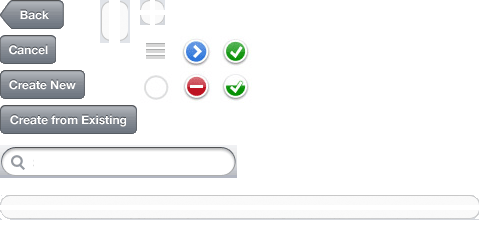
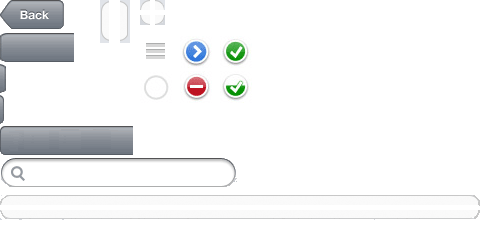
a new version

Changed region(s): [[0.0, 0.1217, 0.48, 0.8217], [0.03, 0.9435, 0.96, 0.9739]]

diff --git a/HTML/style/style.css b/HTML/style/style.css
@@ -1,6 +1,6 @@
 @charset "utf-8";
 
-body, button, input, select, textarea { font: 12px/1.5 Tahoma, Arial, sans-serif; }
+body, button, input, select, textarea { font: 12px/1.5 Arial, Tahoma, sans-serif; }
 ul, ol { list-style: none; margin:0;padding:0; }
 .FL{float:left;}
 .FR{float:right;}
@@ -10,14 +10,19 @@ ul, ol { list-style: none; margin:0;padding:0; }
 .doc{margin:0 auto;}
 .content{background:#d1d3d9;border:3px solid #888988;border-top:0;overflow:hidden;}
 .content .main-ctnt{width:505px;padding-left:25px;overflow:hidden;}
-.b-back,.b-cancel,.b-cnew,.b-cfexist,.ipt-search,.ipt-l,.ipt-r,.i-list,.i-radio,.rbox-t,.rbox-b,
+.b-back,.b-al,.b-ar,.b-bl,.b-br,.ipt-search,.ipt-l,.ipt-r,.i-list,.i-radio,.rbox-t,.rbox-b,
 .i-expander,.i-del,.i-check,.i-half-check{background-image:url(../images/bg.png);display:inline-block;}
 .body-rex,.head-rex,.search-rex,.ipt-rex,.bottom-rex{background:url(../images/bgrex.png) repeat-x 0 0;}
 .b-back{width:64px;height:29px;background-position:0 0;margin:8px 8px 0 4px;float:left;}
-.b-cancel{width:56px;height:29px;background-position:0 -35px;margin:8px 0 0 9px;_margin-left:7px;}
-.b-cnew{width:85px;height:29px;background-position:0 -70px;margin:8px 8px 0 80px;}
-.b-cfexist{width:137px;height:29px;background-position:0 -105px;}
-.ipt-search{width:237px;height:33px;background-position:0 -145px;margin:6px;float:left;overflow:hidden;}
+.b-al,.b-ar,.b-bl,.b-br{height: 29px;float: left;cursor: pointer;}
+.b-al{background-position:-1px -33px;}
+.b-ar{background-position:0 -64px;width: 6px;}
+.b-bl{background-position:0 -126px;}
+.b-br{background-position:0 -95px;width: 4px;}
+a { text-decoration: none}
+a em{font-size: 11px;font-weight: 300; color: #FFF;font-style: normal;line-height: 28px;padding: 0 3px 0 8px;text-decoration: none!important;}
+a:hover em{text-decoration: none!important;}
+.ipt-search{width:237px;height:33px;background-position:0 -158px;margin:6px;float:left;overflow:hidden;}
 .ipt-l,.ipt-r{width:9px;height:43px;background-position:-100px 0;}
 .ipt-r{width:10px;background-position:-120px 0;}
 .rbox-t,.rbox-b{width:479px;height:10px;background-position: 0 -195px;margin:0;padding:0;overflow:hidden;}
@@ -33,19 +38,23 @@ ul, ol { list-style: none; margin:0;padding:0; }
 .body-rex{background-position:0 -199px;height:852px;width:852px;}
 .head-rex{background-position:0 -2px;height:47px;width:852px;border:3px solid #888988;border-width:2px 3px 0 3px;}
 .search-rex{background-position:0 -52px;height:44px;width:320px;overflow:hidden;_position:relative;}
-.ipt-rex{background-position:0 -95px;height:43px;width:462px;}
+.search-rex .b-btna{float: left;display: inline-block;margin: 6px 2px 0 7px;_margin-left: 3px;}
+.head-btns .b-btna{float: left;display: inline-block;margin: 9px 2px 0 7px;}
+.ipt-rex{background-position:0 -95px;height:42px;width:462px;}
 .bottom-rex{background-position:0 -152px;height:46px;width:320px;}
+.bot-btns{float: right;}
+.bot-btns .b-creat-new{margin: 8px 10px 0 0;display: inline-block;float: left;}
+.bot-btns .b-cfe{margin: 8px 7px 0 0;display: inline-block;float: left;}
 
 .head .head-btns{width: 316px;}
-.head .head-title{color:#717880;font-size:17px;font-weight:600;width: 174px;line-height: 47px;display: inline-block;text-align: center;float:left;}
-.content .search-input{border:0;margin: 7px 3px 0 27px;*margin:5px 8px 0 22px;height: 21px;width: 195px;color:#c7c7c7;font-size:16px;}
-.content .side-nav .b-cancel{margin: 8px 4px 0 11px;float:left;_position:absolute;_top:0px;_left:250px;}
+.head .head-title{color:#717880;text-shadow: 1px 0px 2px #FFF;font-size:19px;font-weight:600;width: 174px;line-height: 47px;display: inline-block;text-align: center;float:left;}
+.content .search-input{border:0;margin: 5px 3px 0 27px;*margin:3px 8px 0 22px;height: 21px;width: 195px;color:#c7c7c7;font-size:16px;}
 .content .category{width:320px;height:764px;background:white;overflow: hidden;clear:left;}
 .content .category .cat-list{margin:0;padding:0;}
 .content .category li{border-bottom:1px solid #bbb;height:45px;overflow:hidden;}
 .content .category .c-item{display:inline-block;width:255px;font-size:16px;line-height: 45px;font-weight:600;color:#030303;padding-left:12px;float:left;}
 .content .cat-ipt{overflow:hidden;margin-top:12px;}
-.content .cat-ipt .cat-text{border: 0;height: 34px;width: 459px;color: #000;font-size: 16px;margin-top: 4px;background:#f9f9f9;}
+.content .cat-ipt .cat-text{border: 0;height: 33px;line-height: 36px;*line-height: 30px;width: 459px;color: #000;font-size: 16px;margin-top: 4px;background:#f9f9f9;}
 .content .rbox{overflow:hidden;width:479px;}
 .content .rbox-ctnt,.content .rbox-bottom{background:#f9f9f9;border:1px solid #c7c7c7;border-width:0 1px;}
 .content .rbox-bottom{overflow: hidden;}

diff --git a/HTML/index.html b/HTML/index.html
@@ -12,7 +12,9 @@
 		<div class="head-btns">
 			<a href="javascript:;" class="b-back"></a>
 			<div class="head-title">Lorem lpsum</div>
-			<a href="javascript:;" class="b-cancel"></a>
+			<a href="javascript:;" class="b-btna">
+				<span class="b-al"><em>Cancel</em></span><span class="b-ar"></span>
+			</a>
 		</div>
 	</div>
 	<!-- Head bar end -->
@@ -24,7 +26,9 @@
 				<div class="ipt-search">
 					<input type="text" value="Search" class="search-input"/>
 				</div>
-				<a href="javascript:;" class="b-cancel"></a>
+				<a href="javascript:;" class="b-btna">
+					<span class="b-al"><em>Cancel</em></span><span class="b-ar"></span>
+				</a>
 			</div>
 			<div class="category">
 				<ul class="cat-list">
@@ -38,8 +42,15 @@
 				</ul>
 			</div>
 			<div class="cate-bottom bottom-rex">
-				<a href="javascript:;" class="b-cnew"></a>
-				<a href="javascript:;" class="b-cfexist"></a>
+				<div class="bot-btns">
+					<a href="javascript:;" class="b-btnb b-creat-new">
+						<span class="b-bl"><em>Create New</em></span><span class="b-br"></span>
+					</a>
+					<a href="javascript:;" class="b-btnb b-cfe">
+						<span class="b-bl"><em>Create from Existing</em></span><span class="b-br"></span>
+					</a>
+				</div>
+				
 			</div>
 		</div>
 		<!-- left side panel end -->
@@ -73,7 +84,7 @@
 						<li class="l2 last">Heart Medications</li>
 					</ul>
 				</div>
-				<dir class="rbox-b"></dir>
+				<div class="rbox-b"></div>
 			</div>
 			<div class="ctnt-bottom rbox">
 				<div class="rbox-t"></div>
@@ -84,7 +95,7 @@
 						<li class="item last">Item</li>
 					</ul>
 				</div>
-				<dir class="rbox-b"></dir>
+				<div class="rbox-b"></div>
 			</div>
 		</div>
 		
